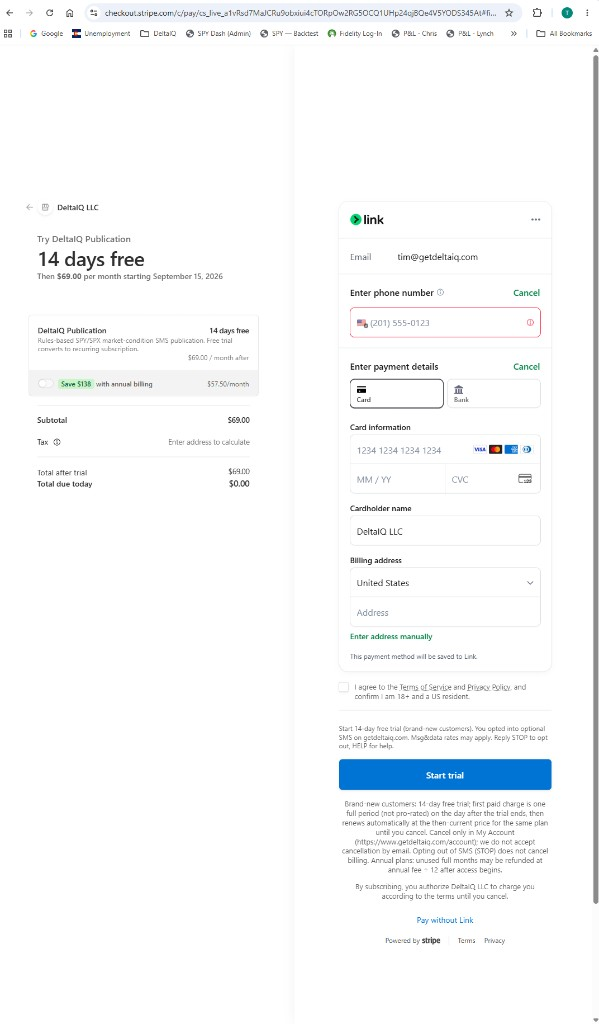
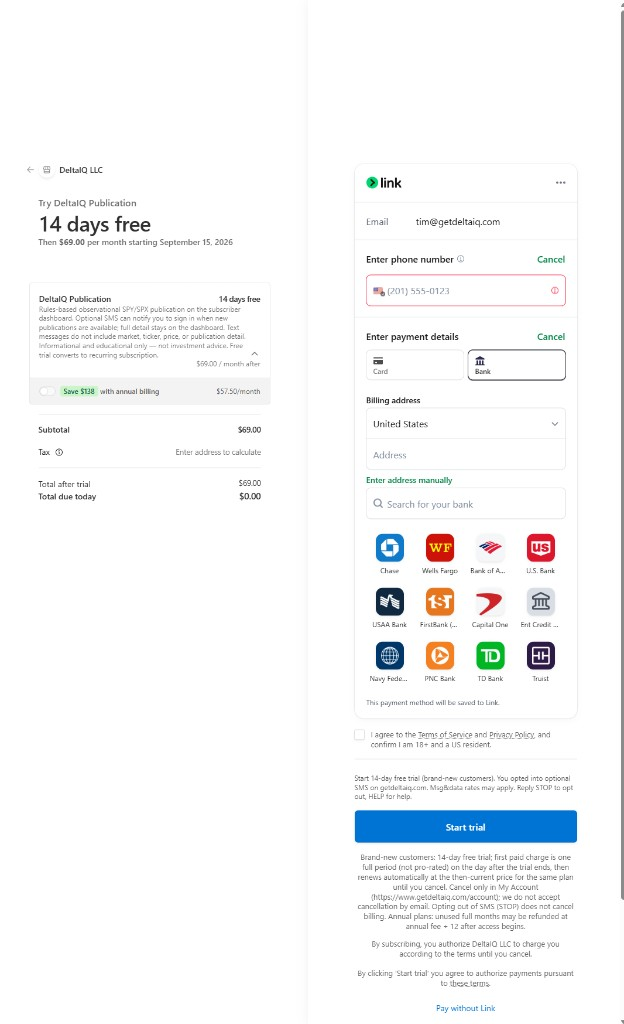
Update SMS opt-in evidence with new Stripe Checkout screenshot.
Document dashboard publication copy and full submit-line disclosure for Twilio 10DLC review.

diff --git a/files/sms-opt-in/index.html b/files/sms-opt-in/index.html
@@ -60,9 +60,10 @@
   <p><img src="consent-modal.png" alt="Screenshot: DeltaIQ consent modal with three unchecked checkboxes"></p>
 
   <h2>Step 2 — Stripe checkout (phone number collection)</h2>
-  <p>After the modal, the user is redirected to Stripe Checkout (hosted on <strong>checkout.stripe.com</strong>). Mobile phone number is collected on this page. When the user selected optional SMS on getdeltaiq.com, the submit line states: <em>“You opted into optional SMS on getdeltaiq.com. Msg&amp;data rates may apply. Reply STOP to opt out, HELP for help.”</em></p>
+  <p>After the modal, the user is redirected to Stripe Checkout (hosted on <strong>checkout.stripe.com</strong>). The left panel describes the subscription as a rules-based observational SPY/SPX <strong>dashboard publication</strong>; optional SMS is described as a sign-in notification only (no market, ticker, price, or publication detail in texts). Mobile phone number is collected on the right panel.</p>
+  <p>When the user selected optional SMS on getdeltaiq.com, the submit line states: <em>“Start 14-day free trial (brand-new customers). You opted into optional SMS on getdeltaiq.com. Msg&amp;data rates may apply. Reply STOP to opt out, HELP for help.”</em> A separate Stripe checkbox requires agreement to Terms of Service and Privacy Policy (18+, US resident).</p>
   <p>Direct screenshot: <a href="stripe-checkout.png">https://getdeltaiq.com/sms-opt-in/stripe-checkout.png</a></p>
-  <p><img src="stripe-checkout.png" alt="Screenshot: Stripe Checkout showing phone number field and optional SMS submit-line disclosure with Msg and data rates, STOP, and HELP"></p>
+  <p><img src="stripe-checkout.png" alt="Screenshot: Stripe Checkout showing DeltaIQ Publication dashboard copy, phone number field, Terms checkbox, and optional SMS submit-line disclosure with Msg and data rates, STOP, and HELP"></p>
 
   <h2>Step 2b — Homepage public SMS disclosures (always visible)</h2>
   <p>Public disclosures at <a href="https://getdeltaiq.com/#consent">getdeltaiq.com/#consent</a> (screenshot below).</p>
